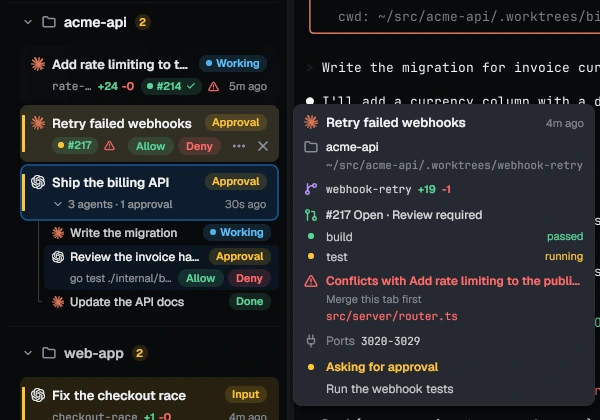
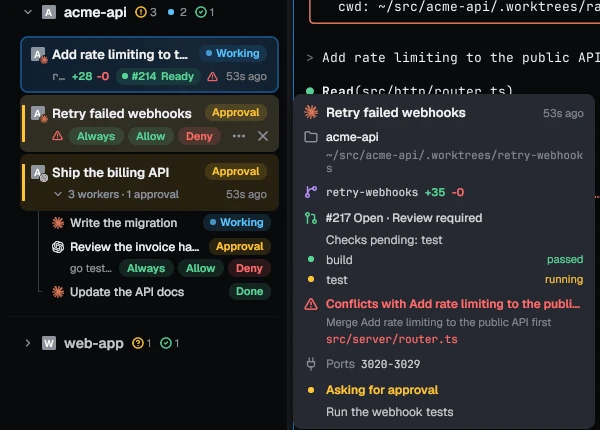
Retake the tabs, conflict and phone images from the current build
All three come from a temp daemon with scripted agents. A fake gh on
PATH answers gh pr view with pull requests #214, #217 and a merged #88,
and two worktrees add the same file, so the conflict radar finds a real
conflict. Pins and colors were set over the daemon socket. The phone
page was paired against the temp daemon and rendered in headless
Chromium at 390 wide and scale 2. Alt text and sizes follow the images.

diff --git a/docs/index.html b/docs/index.html
@@ -285,7 +285,7 @@ scoop install pitwall</code></pre>
         </div>
         <div class="media stack">
           <div class="shot tall"><img src="media/row-answers.webp" width="288" height="354" loading="lazy" alt="Sidebar rows answering in place: a Codex pane's approval with Always, Allow and Deny, and under an orchestrator's row four workers, one with Allow and Deny and one asking which database to use with Redis and SQLite buttons"></div>
-          <div class="shot tall"><img src="media/phone.webp" width="780" height="1688" loading="lazy" alt="The phone page: approvals for three tabs with Allow and Deny buttons, and a Codex question with an answer box"></div>
+          <div class="shot tall"><img src="media/phone.webp" width="780" height="1688" loading="lazy" alt="The phone page: two approvals with Allow and Deny buttons, a question from Fix the checkout race, and two finished turns with a Reply box"></div>
         </div>
       </div>
 
@@ -345,7 +345,7 @@ pitwall wait --children \
           <p><strong>Clean up what a worktree started.</strong> Set <code>teardown</code>, such as <code>docker compose down</code>, under <code>[worktrees]</code>, and it runs with the worktree's ports before pitwall removes the folder. A failure keeps the worktree and says why. A command from a repo's <code>.pitwall/worktree.toml</code> needs your yes each time, since anyone can put code in a repo you clone. Without a yes, pitwall skips it, shows what it would have run and removes the worktree.</p>
         </div>
         <div class="media">
-          <div class="shot"><img src="media/conflict.webp" width="600" height="420" loading="lazy" alt="The hover card of the Retry failed webhooks tab: its pull request with one check passed and one running, a red warning that it conflicts with the rate limiting tab in src/server/router.ts, and its ports"></div>
+          <div class="shot"><img src="media/conflict.webp" width="600" height="430" loading="lazy" alt="The hover card of the Retry failed webhooks tab: pull request #217 open with review required, build passed and test running, a red warning that it conflicts with the rate limiting tab in src/server/router.ts and which to merge first, its ports and the command it asks to run"></div>
         </div>
       </div>
 
@@ -439,7 +439,7 @@ pitwall send "$pane" -- "Critique plan.md"</code></pre>
           <p><strong>Closing a tab or pane asks first when its agent is working or waiting on you mid-turn.</strong> The dialog names the tab and agents, once for the whole close. Turn it off in Settings, Appearance, Confirm close, or with <code>[appearance] confirm_close = false</code>.</p>
         </div>
         <div class="media">
-          <div class="shot tall"><img src="media/tabs.webp" width="288" height="460" loading="lazy" alt="The sidebar with colored tabs: a pinned blue Rate limiting tab with the remote control mark, a red Retry failed webhooks tab waiting for input, a pinned green Billing export tab marked done, and a violet Onboarding copy tab working"></div>
+          <div class="shot tall"><img src="media/tabs.webp" width="288" height="570" loading="lazy" alt="The sidebar with pinned and colored tabs: a pinned blue rate limiting tab with its pull request ready, a red Retry failed webhooks tab waiting for approval, a pinned green Add dark mode tab whose pull request merged, and a violet Fix the checkout race tab waiting for input"></div>
         </div>
       </div>
 

diff --git a/README.md b/README.md
@@ -139,7 +139,7 @@ them too.
 
 <br clear="right">
 
-<img src="docs/media/phone.webp" alt="The phone page: approvals for three tabs with Allow and Deny buttons, and a Codex question with an answer box" width="240" align="right">
+<img src="docs/media/phone.webp" alt="The phone page: two approvals with Allow and Deny buttons, a question from Fix the checkout race, and two finished turns with a Reply box" width="240" align="right">
 
 **Or answer from your phone.** Pair it by QR code and it lists what needs you,
 with Allow and Deny and a box for typed answers. A menu on an agent's screen
@@ -258,7 +258,7 @@ shows what it would have run and removes the worktree.
 `pitwall worktree rm --force` skips teardown.
 [Worktree ports and setup](docs/usage.md#worktree-ports-and-setup) has the rules.
 
-<img src="docs/media/conflict.webp" alt="The hover card of the Retry failed webhooks tab: its pull request with one check passed and one running, a red warning that it conflicts with the rate limiting tab in src/server/router.ts, and its ports" width="600">
+<img src="docs/media/conflict.webp" alt="The hover card of the Retry failed webhooks tab: pull request #217 open with review required, build passed and test running, a red warning that it conflicts with the rate limiting tab in src/server/router.ts and which to merge first, its ports and the command it asks to run" width="600">
 
 ### Limit what an agent can do by accident
 
@@ -376,7 +376,7 @@ Mac still sleeps when you tell it to. Windows does nothing.
 
 ### Pin and color the tabs you keep
 
-<img src="docs/media/tabs.webp" alt="The sidebar with colored tabs: a pinned blue Rate limiting tab with the remote control mark, a red Retry failed webhooks tab waiting for input, a pinned green Billing export tab marked done, and a violet Onboarding copy tab working" width="240" align="right">
+<img src="docs/media/tabs.webp" alt="The sidebar with pinned and colored tabs: a pinned blue rate limiting tab with its pull request ready, a red Retry failed webhooks tab waiting for approval, a pinned green Add dark mode tab whose pull request merged, and a violet Fix the checkout race tab waiting for input" width="240" align="right">
 
 **Pin a tab and it stays open.** Closing it from the window asks you to
 unpin it first, and `pitwall kill` from a script or another agent is

diff --git a/docs/usage.md b/docs/usage.md
@@ -777,7 +777,7 @@ next poll. These sends also work with the window closed. The daemon keeps
 its deduplication history in memory, so a restart allows another send.
 Fleet workers with escalation enabled still escalate after two failing
 commits, as described below.
-<img src="media/conflict.webp" alt="The hover card of a tab whose branch conflicts with another: its pull request and checks, the conflicting file in red, the suggestion to merge this tab first, and its ports" width="600">
+<img src="media/conflict.webp" alt="The hover card of the Retry failed webhooks tab: pull request #217 open with review required, build passed and test running, a red warning that it conflicts with the rate limiting tab in src/server/router.ts and which to merge first, its ports and the command it asks to run" width="600">
 
 Agents in worktrees of one repository can edit the same files without
 knowing it. When two tabs on different branches of the same repository

diff --git a/docs/phone.md b/docs/phone.md
@@ -6,7 +6,7 @@ question or a finished turn. It runs inside pitwall's background service.
 There is no account, no relay and no app to install: the phone talks to your
 computer over your own network.
 
-<img src="media/phone.webp" alt="The phone page: approvals for three tabs with Allow and Deny buttons, and a question with an answer box" width="300">
+<img src="media/phone.webp" alt="The phone page: two approvals with Allow and Deny buttons, a question from Fix the checkout race, and two finished turns with a Reply box" width="300">
 
 It is off until you turn it on in Settings, Phone, or in config.toml:
 
